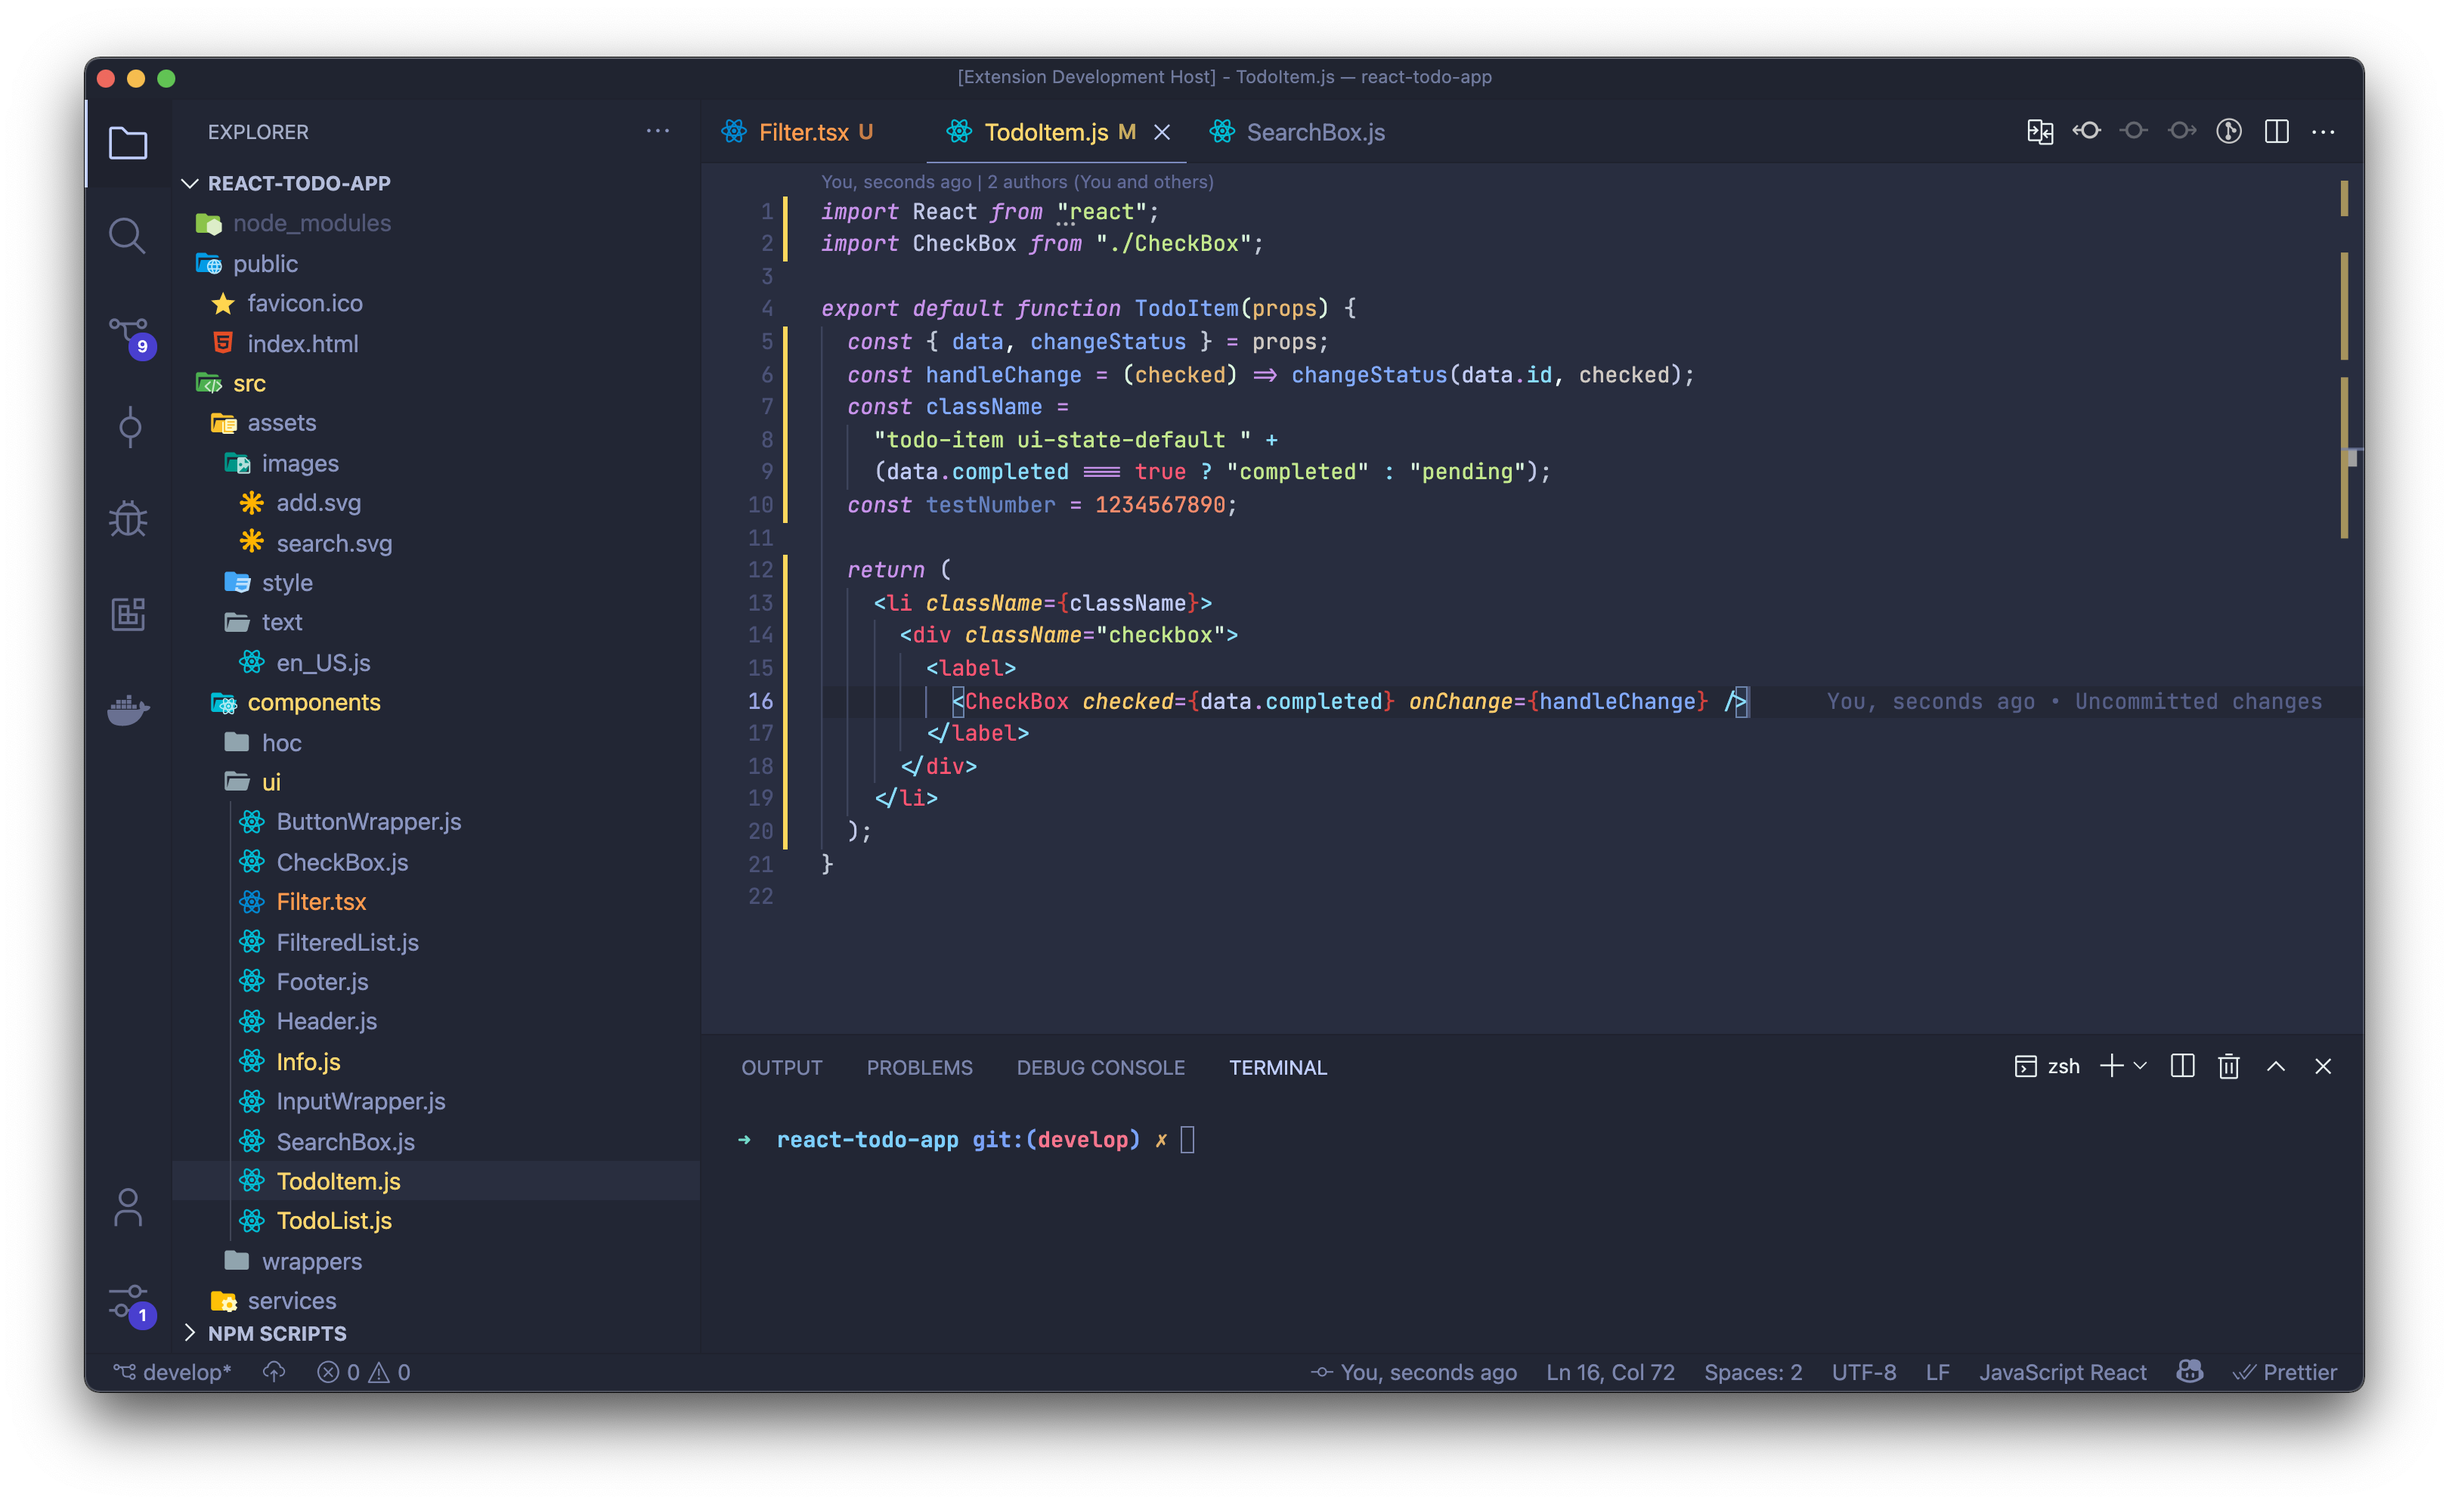
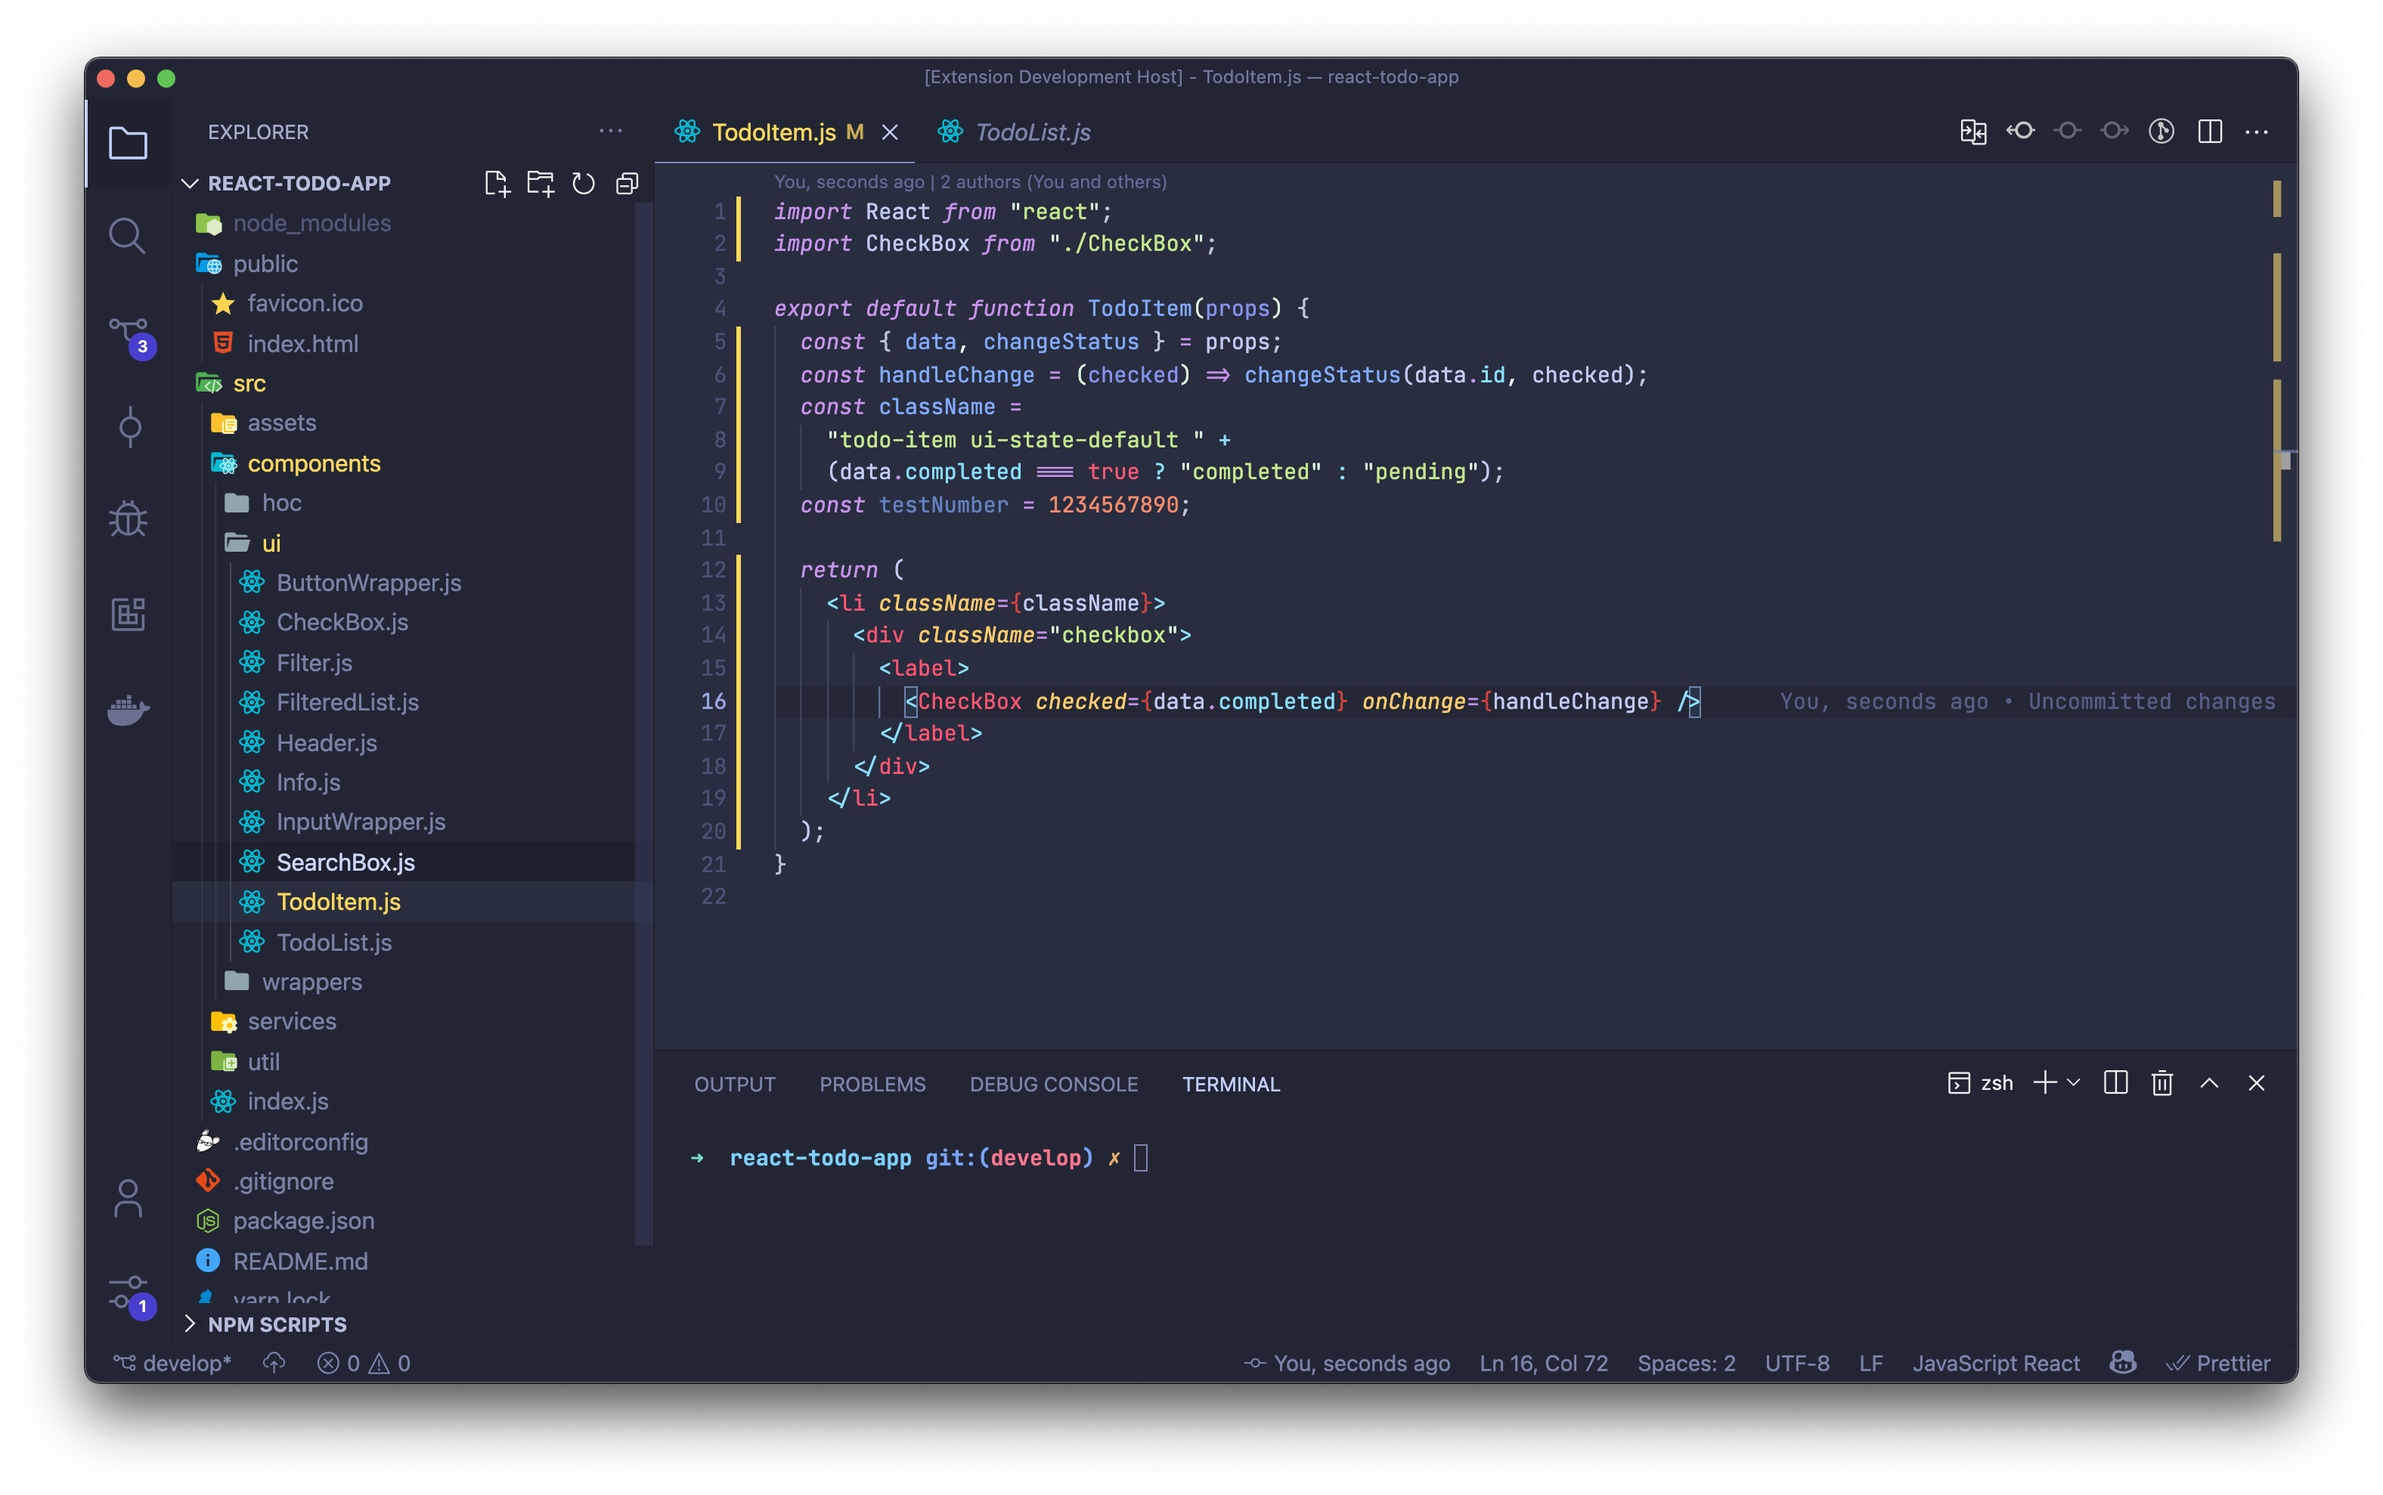
Updated colors
- Dimmed sidebar foreground
- Changed function parameter color to have a better contrast to library class/type color
- Cleaned up

diff --git a/README.md b/README.md
@@ -9,7 +9,7 @@ A Palenight based theme with more contrast, features like semantic highlighting 
 ## Installation
 
 ```
-1. Search for Palestorm in VS Code Extensions, select "Palestorm Theme" by Alexander Alekseenko
+1. Search for "Palestorm" in VS Code Extensions, select "Palestorm" by Alexander Alekseenko
 2. Click Install
 3. Go to Preferences > Color Theme and select Palestorm
 ```
